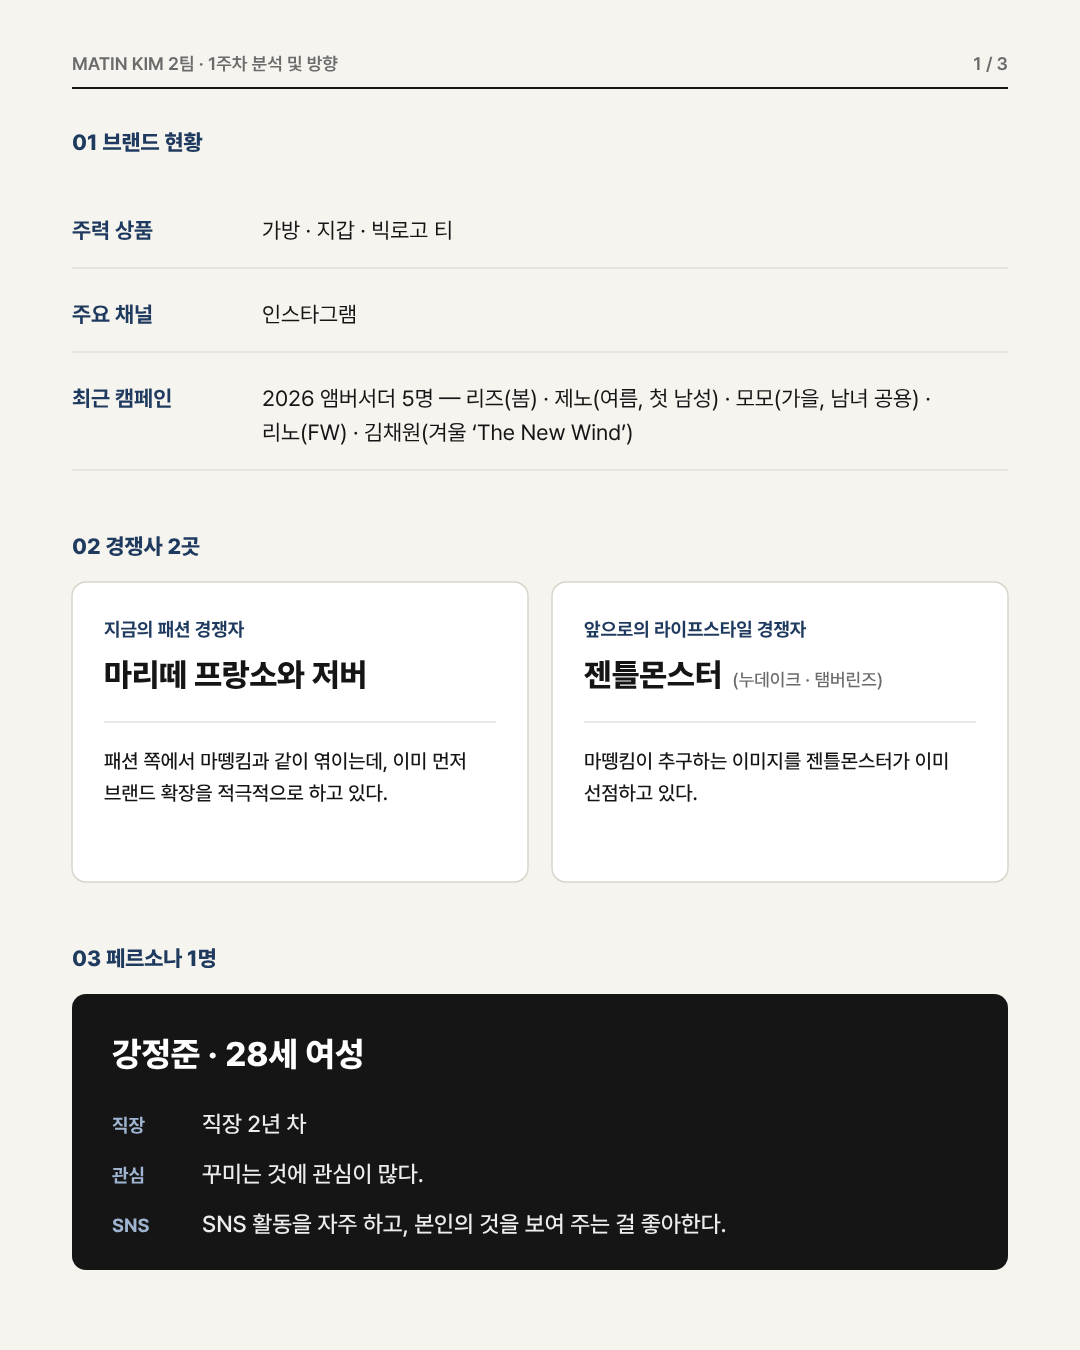
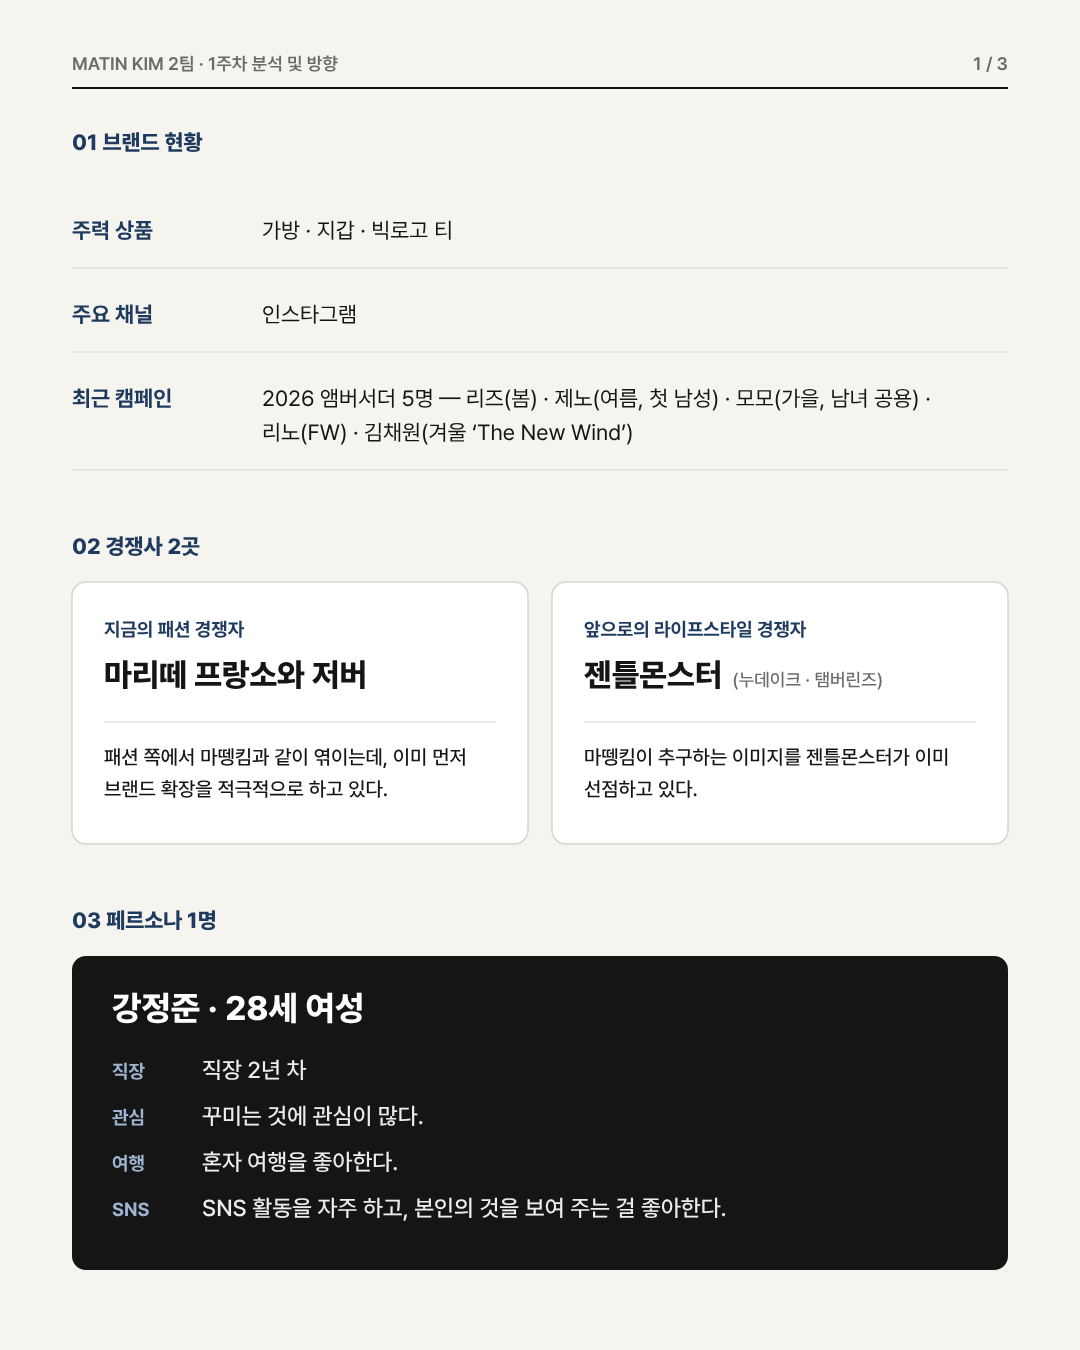
마뗑킴 1주차 페르소나에 '혼자 여행을 좋아함' 추가 (#205)
* 마뗑킴 1주차 3장 재배열: 1장 빈칸을 줄이려고 페르소나를 1장으로 옮기고 3장 모두 여백에 맞게 다시 배치

Claude-Session: https://claude.ai/code/session_01VwLjVAnSisNZrM5Tc54zJy

* 마뗑킴 1주차 페르소나에 직장 2년 차·꾸미는 것에 관심이 많음을 따로 줄로 넣음

Claude-Session: https://claude.ai/code/session_01VwLjVAnSisNZrM5Tc54zJy

* 마뗑킴 1주차 페르소나에 '혼자 여행을 좋아함' 줄을 넣음

Claude-Session: https://claude.ai/code/session_01VwLjVAnSisNZrM5Tc54zJy

---------

diff --git a/개인공부/마케팅교육/마뗑킴_1주차_제출.md b/개인공부/마케팅교육/마뗑킴_1주차_제출.md
@@ -24,7 +24,7 @@
 
 **페르소나 1명**
 
-> **강정준, 28세 여성, 직장 2년 차.** 꾸미는 것에 관심이 많다. SNS 활동을 자주 하고, 본인의 것을 보여 주는 걸 좋아한다.
+> **강정준, 28세 여성, 직장 2년 차.** 꾸미는 것에 관심이 많다. 혼자 여행을 좋아한다. SNS 활동을 자주 하고, 본인의 것을 보여 주는 걸 좋아한다.
 
 ---
 
